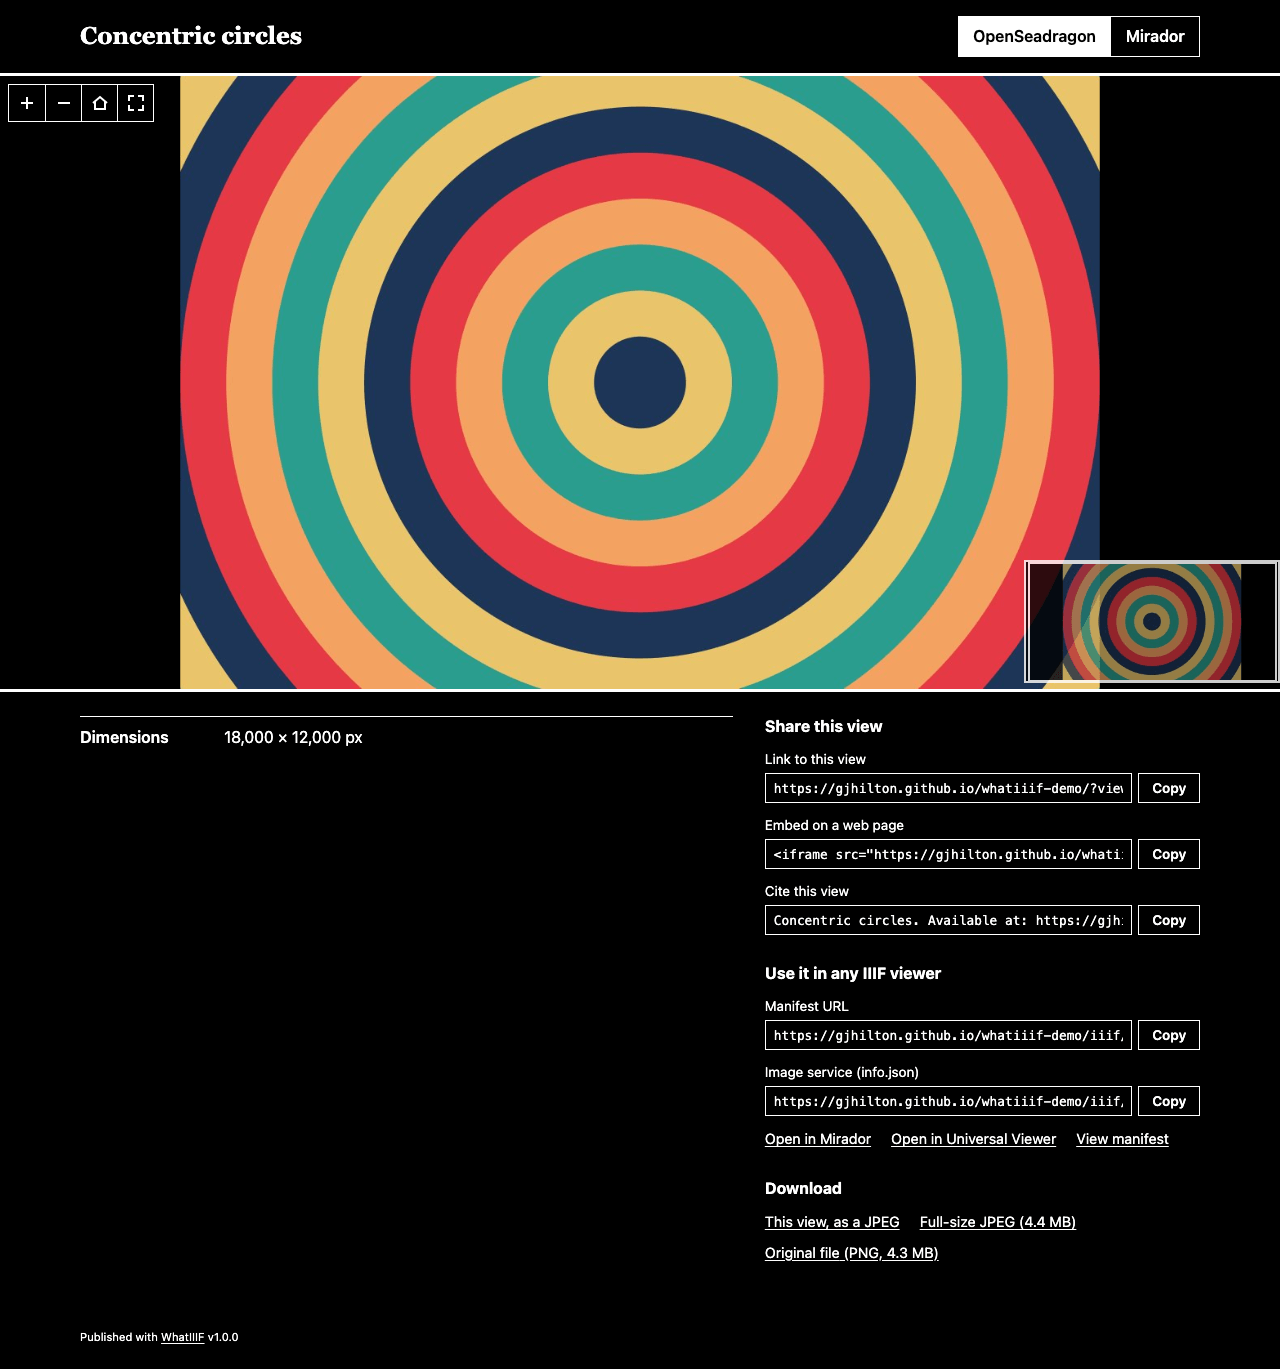
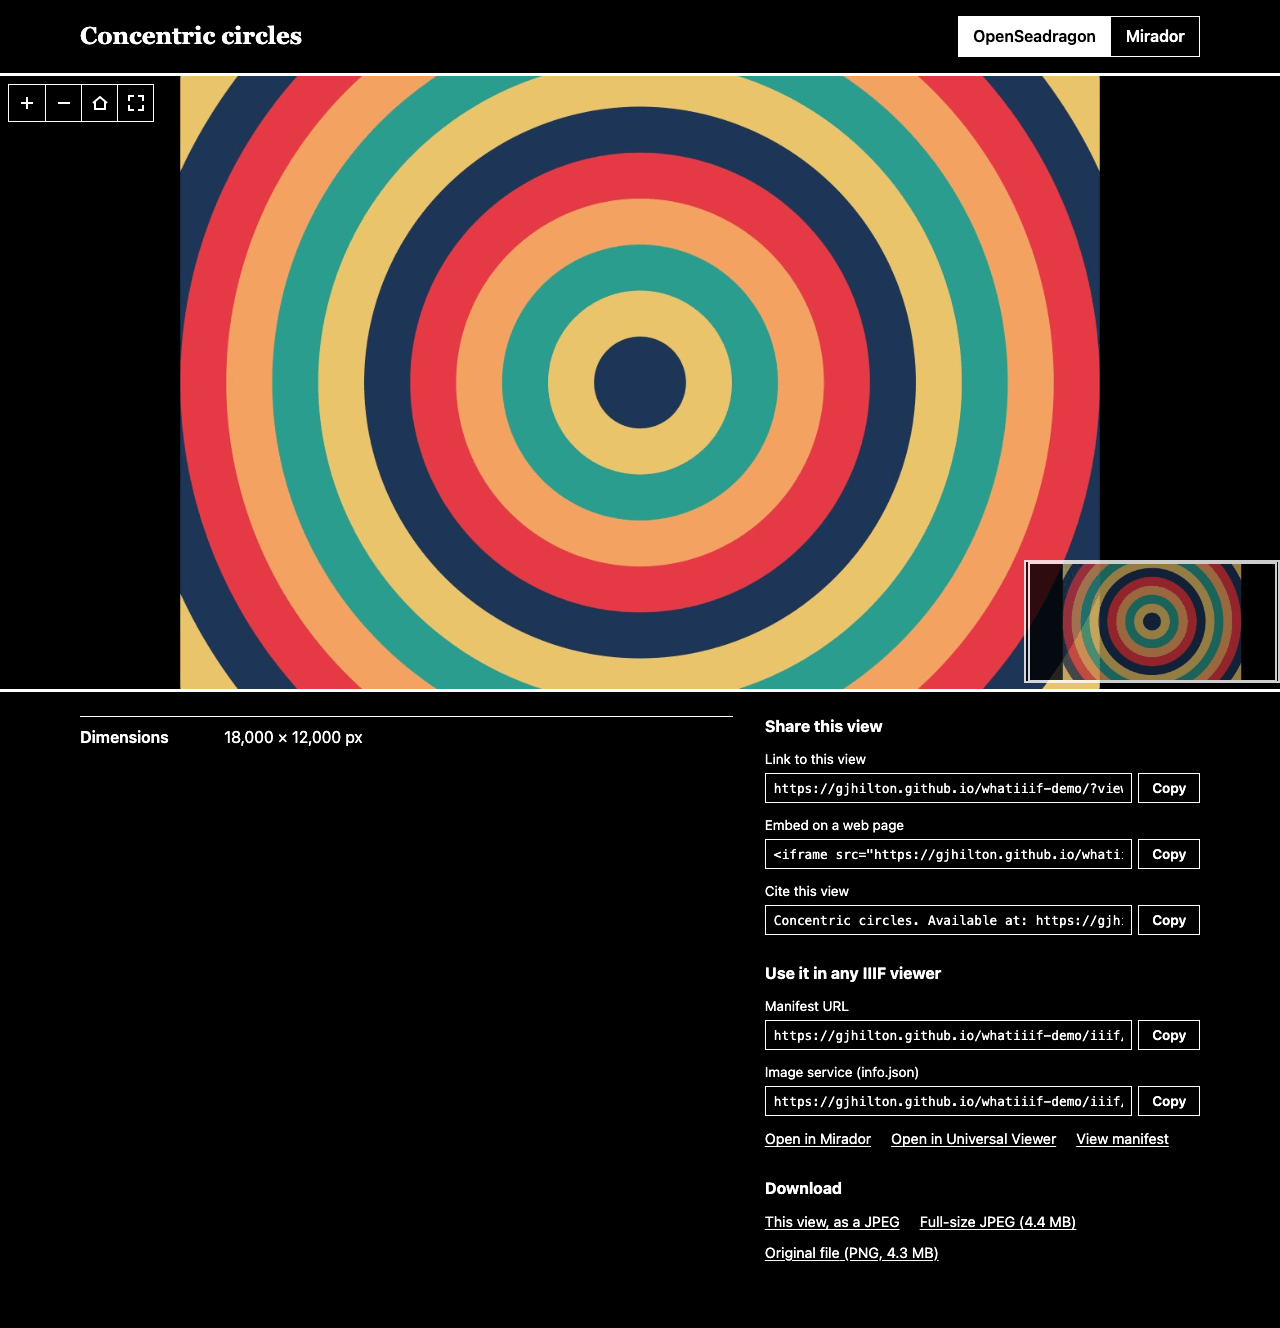
README screenshots are built from all of each demo's content/, its settings too
The script built the plain demo from its picture alone, so the README showed a footer the demo has switched off.
It now lists each demo's content/ (with Live's token) and builds from everything there. Remade: demo.png and
demo-dark.png, now without the footer, as the demo is; settings.png, with the plain demo's real settings.

diff --git a/engine/test/support/readme-screenshots.js b/engine/test/support/readme-screenshots.js
@@ -15,23 +15,30 @@ import { browse, commit, deploy, repo, templateCopy } from './harness.js';
 import { looksDifferent } from './looks-different.js';
 
 const DEMO = 'gjhilton/whatiiif-demo';
-const PICTURE = 'Concentric circles.png';
 const out = (name) => join(repo, 'engine/artwork', name);
+// Asked of GitHub's API with the workflow's token where there is one, which it limits less than strangers.
+const headers = process.env.GH_TOKEN ? { authorization: `Bearer ${process.env.GH_TOKEN}` } : {};
 
-/** A site built by this working tree from the `files` in `demo`'s content/, at its address on GitHub Pages. */
-async function demoSite(demo, files) {
+/**
+ * A site built by this working tree from everything in `demo`'s content/, at its address on GitHub Pages: the demo
+ * exactly, its settings too, so the screenshots show what the demo does.
+ */
+async function demoSite(demo) {
   const copy = await templateCopy();
-  for (const file of files) {
-    const response = await fetch(`https://raw.githubusercontent.com/${demo}/main/content/${encodeURIComponent(file)}`);
-    if (!response.ok) throw new Error(`${demo}'s ${file} could not be downloaded: ${response.status}`);
-    await writeFile(join(copy, 'content', file), Buffer.from(await response.arrayBuffer()));
+  const listing = await fetch(`https://api.github.com/repos/${demo}/contents/content`, { headers });
+  if (!listing.ok) throw new Error(`${demo}'s content/ could not be listed: ${listing.status}`);
+  for (const { name, type, download_url: url } of await listing.json()) {
+    if (type !== 'file' || name === '.gitkeep') continue;
+    const response = await fetch(url, { headers });
+    if (!response.ok) throw new Error(`${demo}'s ${name} could not be downloaded: ${response.status}`);
+    await writeFile(join(copy, 'content', name), Buffer.from(await response.arrayBuffer()));
   }
   await commit(copy, 'The demo');
   const built = await deploy(copy, { baseUrl: `https://gjhilton.github.io/${demo.split('/')[1]}`, repository: demo });
   if (!built.built) throw new Error(built.log);
   return built;
 }
-let site = await demoSite(DEMO, [PICTURE]);
+let site = await demoSite(DEMO);
 
 const written = [];
 const browser = await chromium.launch();
@@ -61,7 +68,7 @@ await shoot('settings.png', {
     await page.evaluate(() => document.activeElement.blur()); // no focus ring in the picture
   },
 });
-site = await demoSite('gjhilton/whatiiif-demo-notes', ['A harbour.png', 'whatiiif.toml', 'description.md', 'notes.md']);
+site = await demoSite('gjhilton/whatiiif-demo-notes');
 await shoot('notes-demo.png', {
   query: '?viewer=openseadragon',
   size: { width: 1280, height: 1000 },
